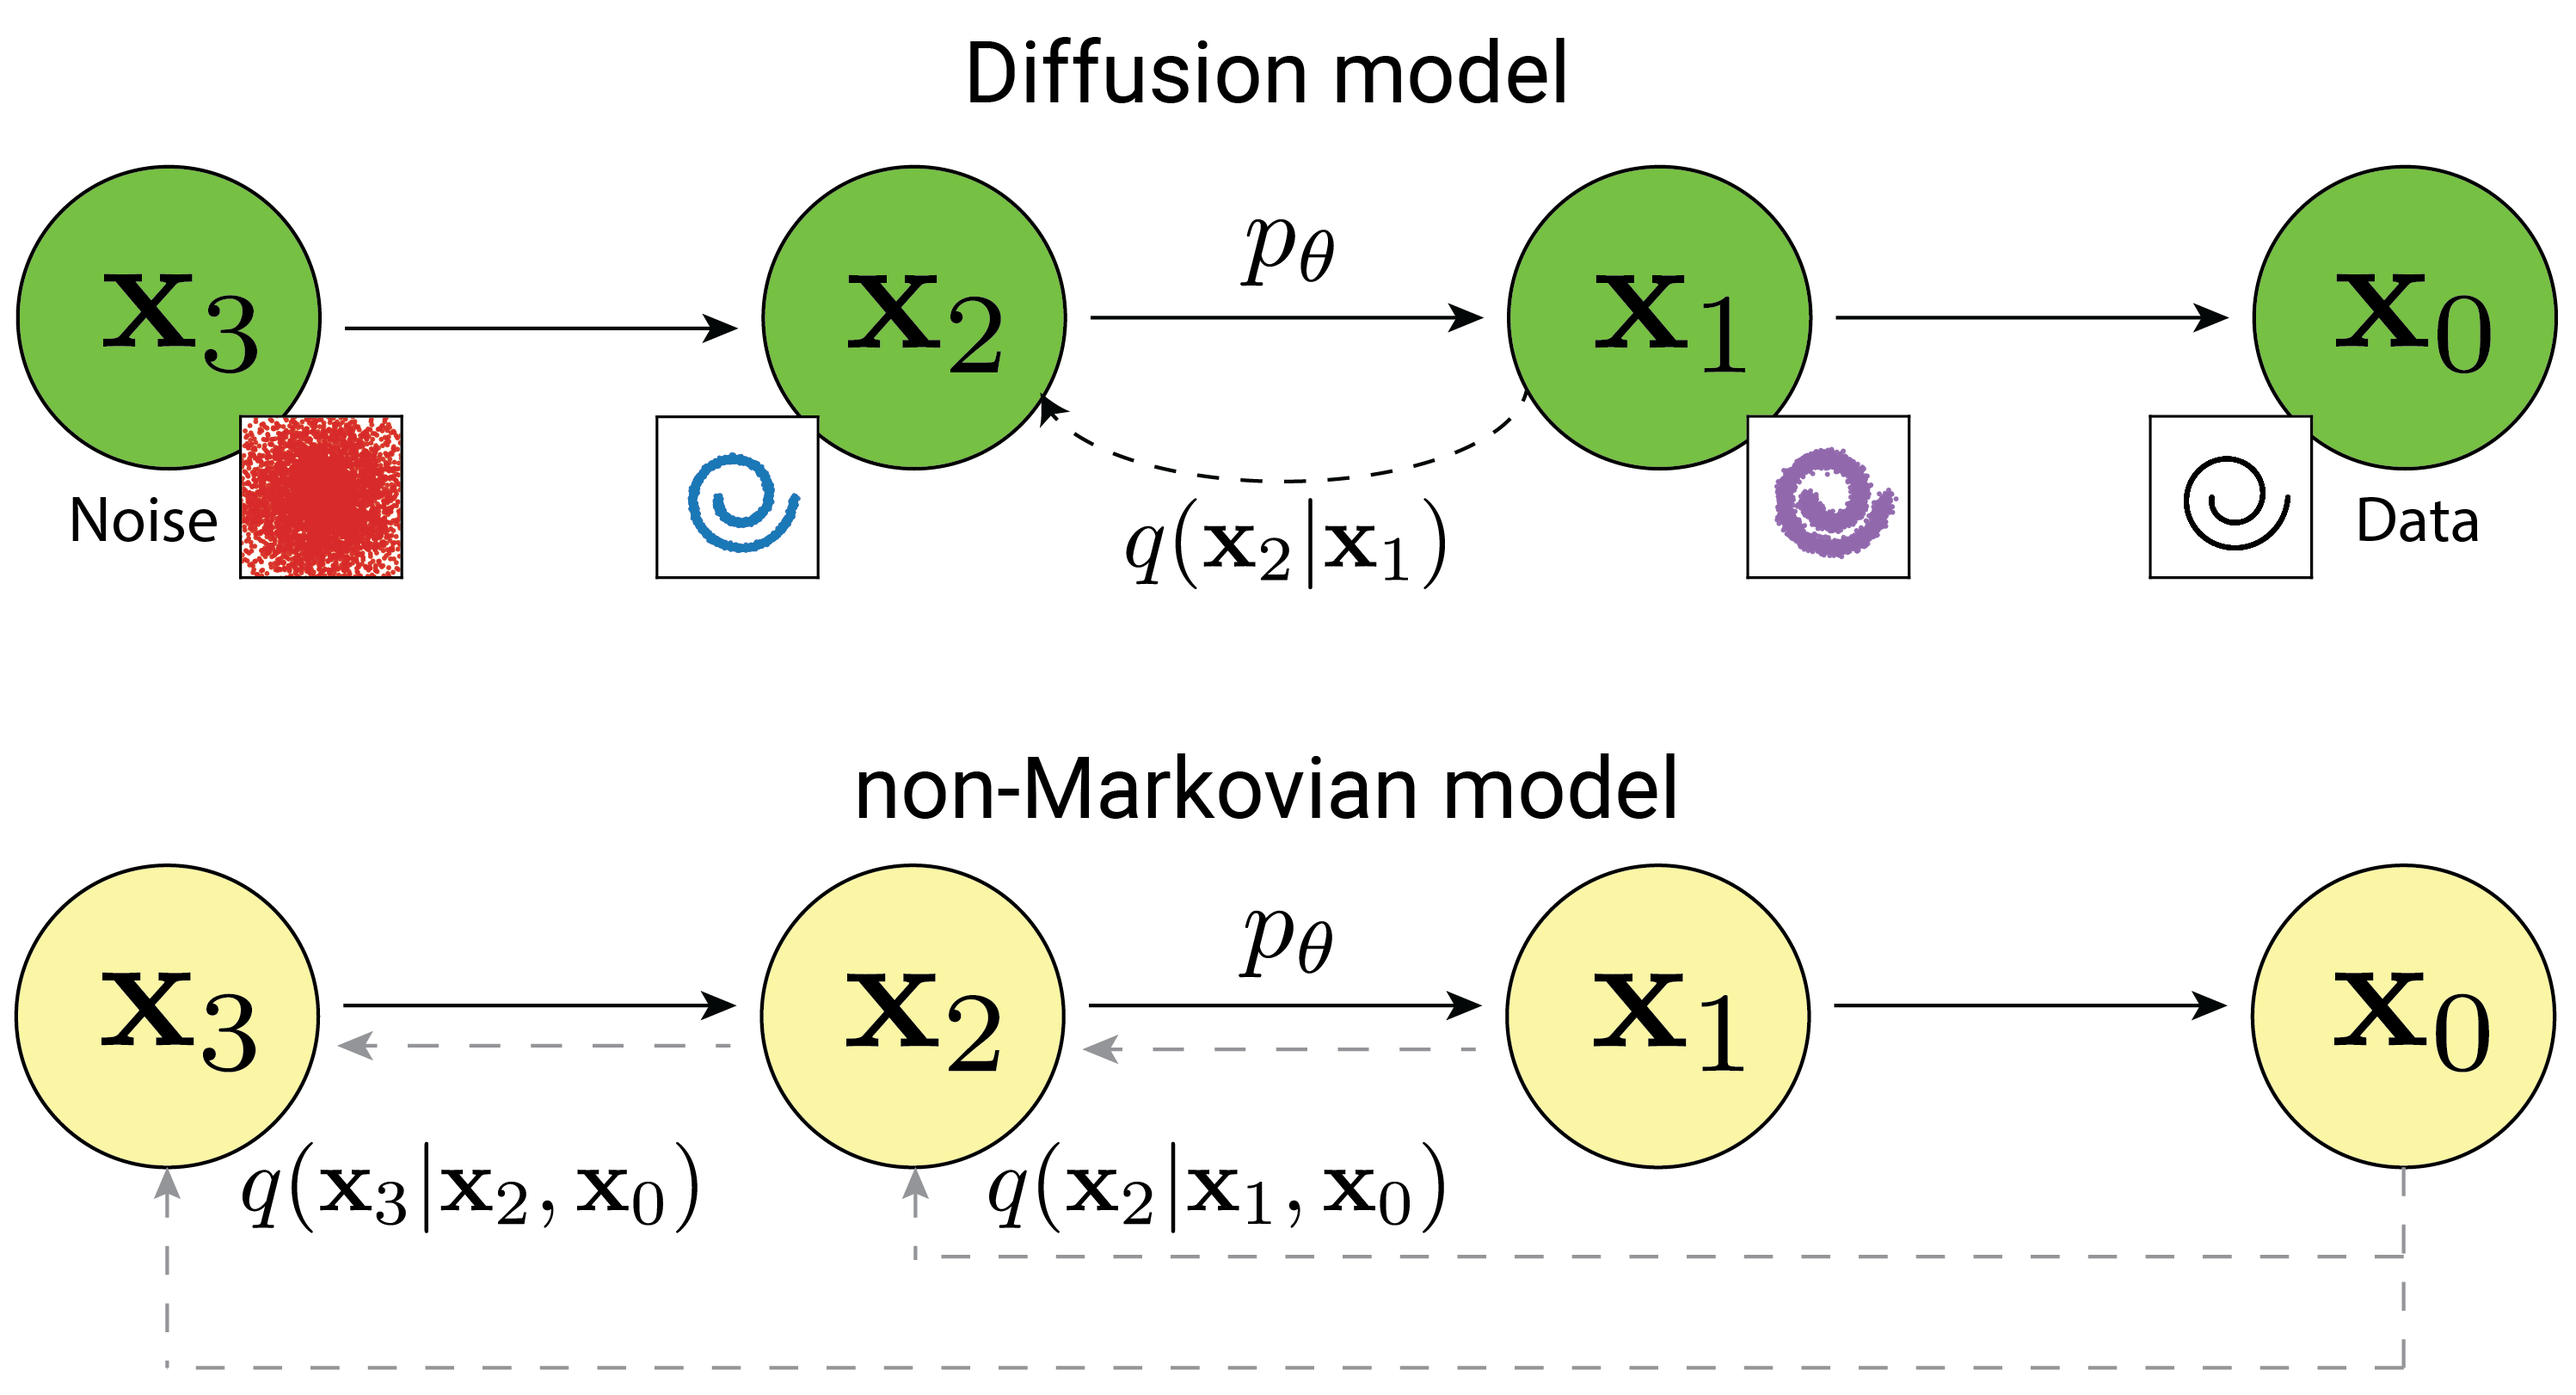
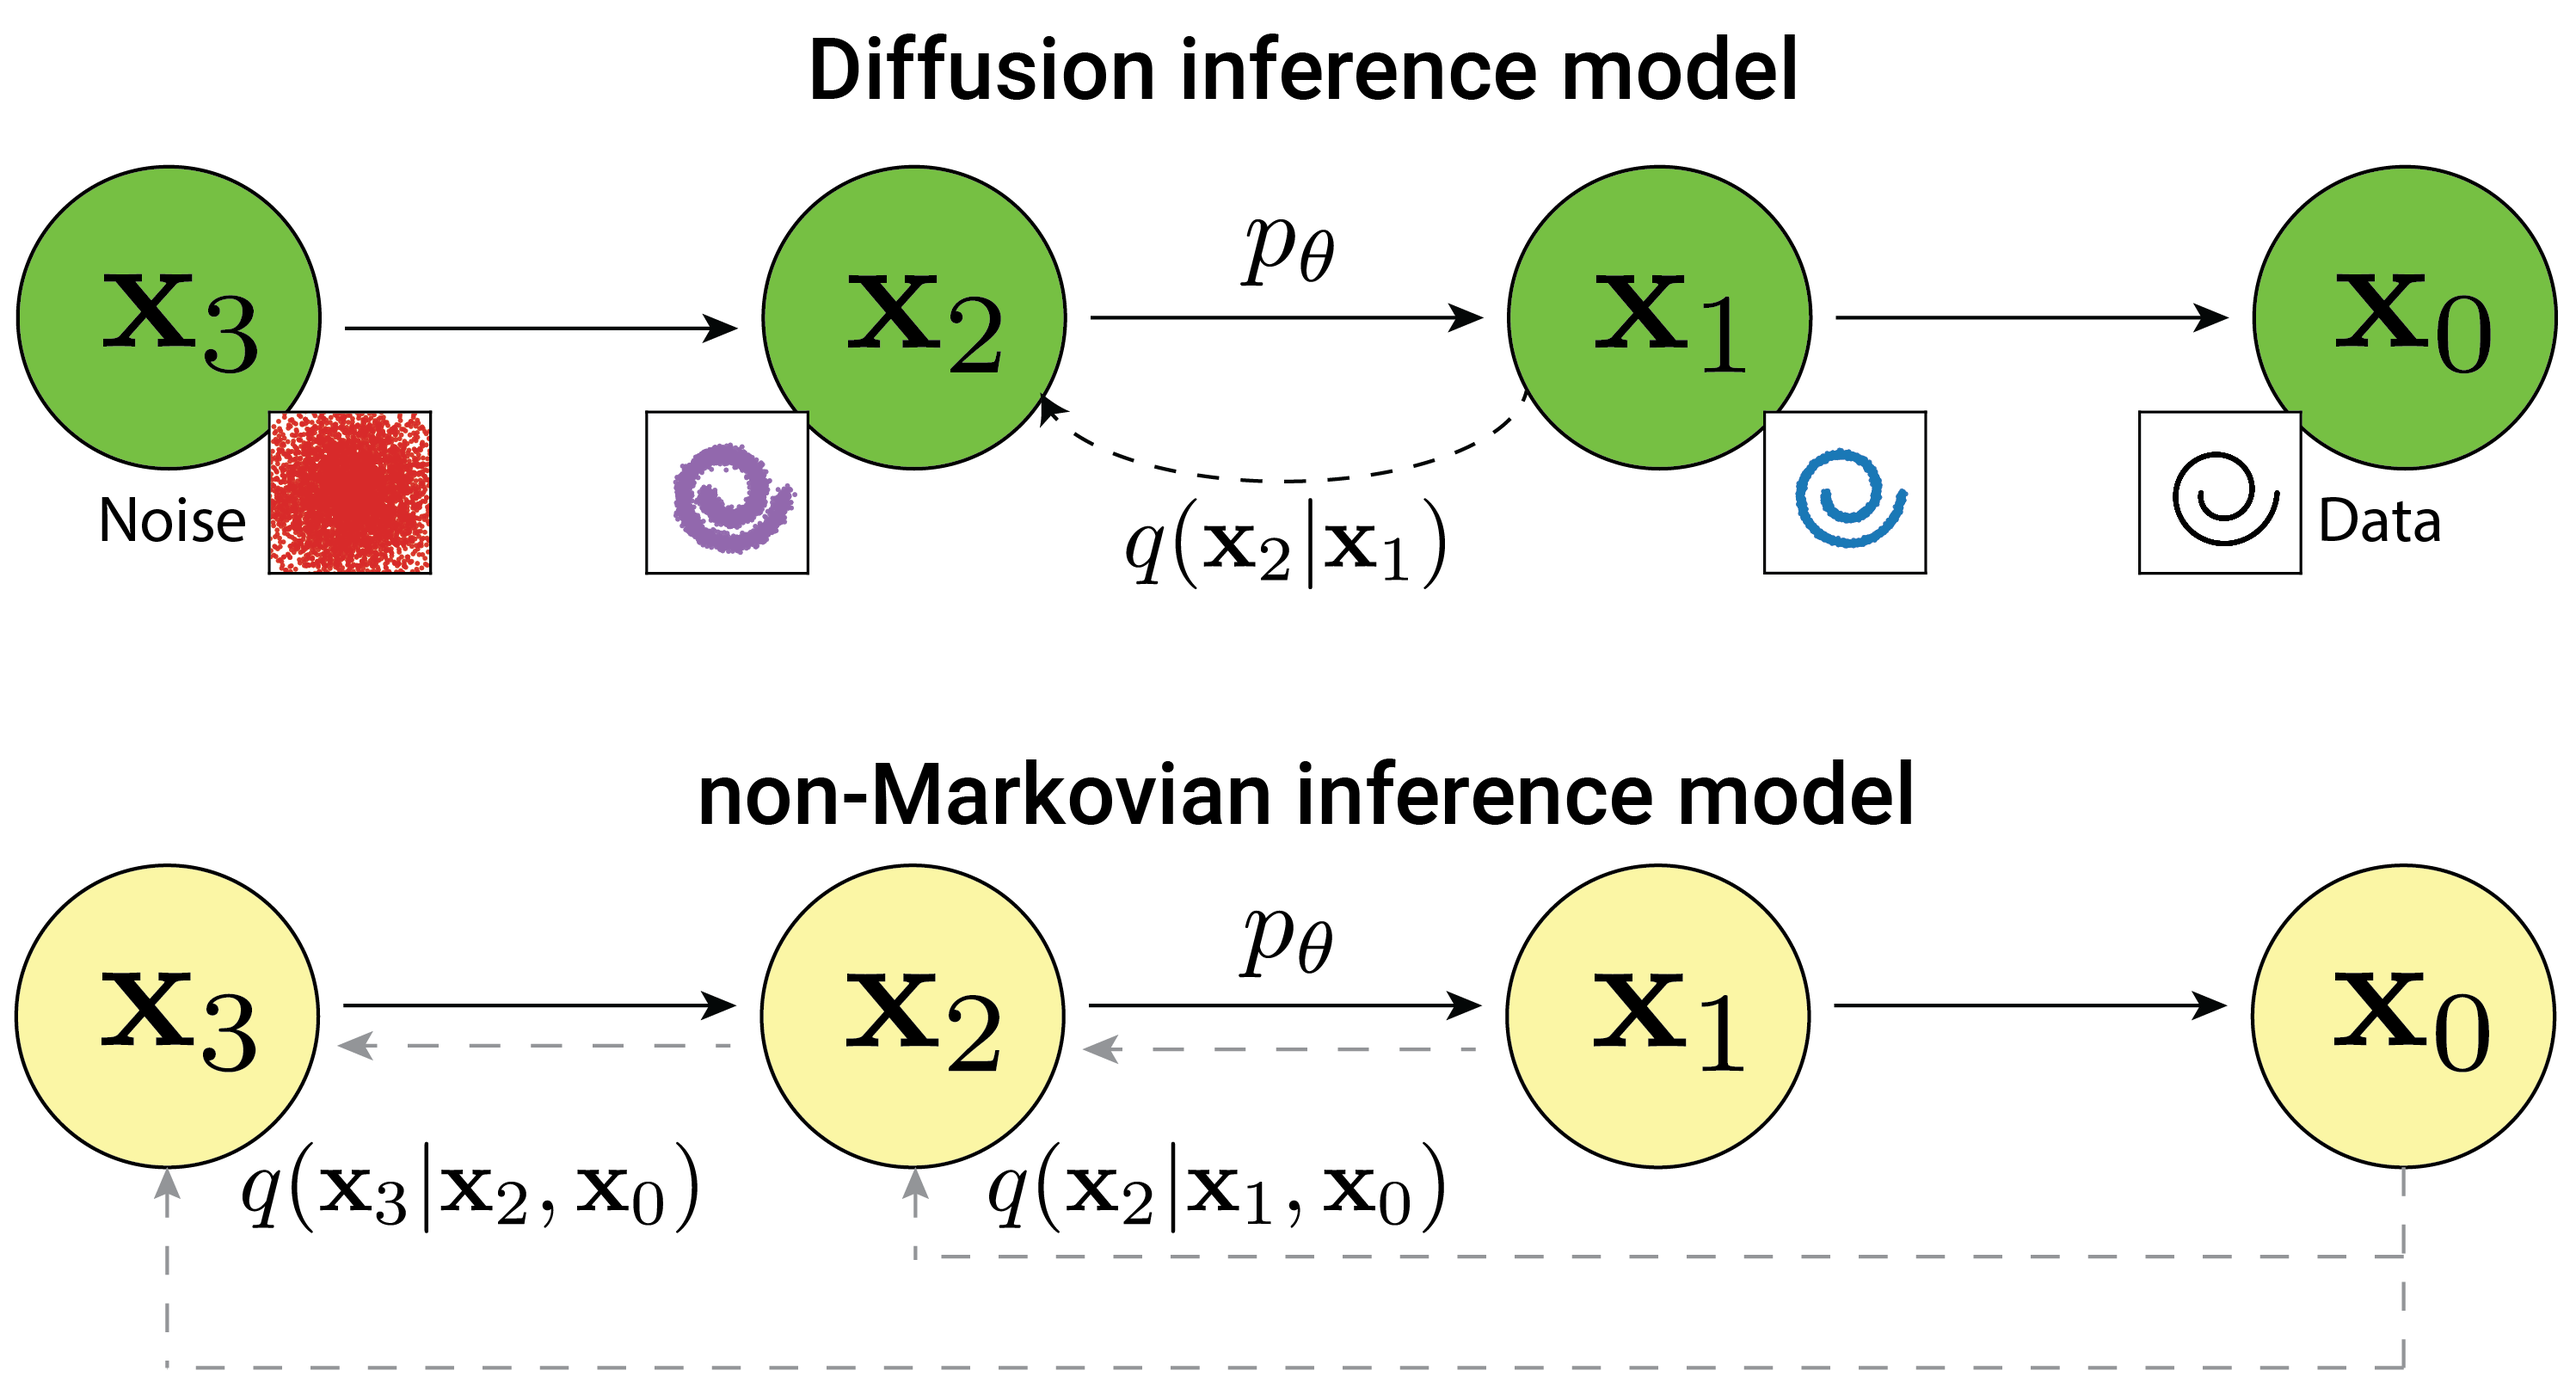
fix figure error and revise writing in ddim

diff --git a/content/posts/Diffusion-Models-DDIM/index.md b/content/posts/Diffusion-Models-DDIM/index.md
@@ -227,6 +227,7 @@ You don’t need to memorize these formulas. The main takeaway is:
   src="../../images/ddim_inferences.png"
   alt="Diffusion model"
   caption="Graphical models for diffusion (top) and non-Markovian (bottom) inference models. <small>*Adapted from [Song et al (2020)](https://arxiv.org/abs/2010.02502)*</small>."
+  width=85%
 >}}
 
 ## Generative Processes
@@ -240,6 +241,8 @@ q_{\sigma}(\mathbf{x}_{t} \vert \mathbf{x}\_0) = \mathcal{N}\big(\sqrt{\alpha\_{
 
 <!--The reason is that ultimately we want $q_{\sigma}(\mathbf{x}\_t \vert \mathbf{x}\_0)$ to become pure white noise when $t=T$ and the original sample when $t=0$.-->
 Why do we want this?
+<div style="margin-top: -18px;"> </div>
+
 - At $t=0$, we want $\mathbf{x}\_t$ to reduce to the original data $\mathbf{x}\_0$.
 - At $t=T$, we want $\mathbf{x}\_T$ to look like almost pure Gaussian noise.
 - Keeping the same form makes it possible to reuse DDPM-trained models.
@@ -249,18 +252,19 @@ There are many different choices of the reverse transition distribution $q\_{\si
 For this purpose, the reverse transition distribution in DDIM is chosen as follows[^JSong2020]:
 
 \begin{equation}
-q_{\sigma}(\mathbf{x}_{t-1} \vert \mathbf{x}\_t, \mathbf{x}\_0) = \mathcal{N}\big(\sqrt{\alpha\_{t-1}}\mathbf{x}\_0 + \sqrt{1 - \alpha\_{t-1}-\sigma_t^2} \left(\frac{\mathbf{x}\_t - \sqrt{\alpha\_t} \mathbf{x}\_0}{\sqrt{1 - \alpha\_{t}}} \right), \sigma_t^2\mathbf{I}\big)
+q_{\sigma}(\mathbf{x}_{t-1} \vert \mathbf{x}\_t, \mathbf{x}\_0) = \mathcal{N}\Big(\sqrt{\alpha\_{t-1}}\mathbf{x}\_0 + \sqrt{1 - \alpha\_{t-1}-\sigma_t^2} \Big(\frac{\mathbf{x}\_t - \sqrt{\alpha\_t} \mathbf{x}\_0}{\sqrt{1 - \alpha\_{t}}} \Big), \sigma_t^2\mathbf{I}\Big)
 \end{equation}
 
 ><mark>*Check out this tutorial[^Chan2024] to see the detailed derivation of this transition distribution.*</mark>
 
-Here, the magnitude of $\sigma_t$ controls how much fresh noise is injected at each step. 
-If $\sigma=0$, the process becomes fully deterministic, <mark class="orange">**and we get a DDIM**</mark>.
-If $\sigma$ is chosen to match the DDPM posterior variance, <mark class="blue">**we recover DDPM sampling**</mark>.
+Here, the magnitude of $\sigma_t$ controls how much fresh noise is injected at each step:
+<div style="margin-top: -18px;"> </div>
+
+- If $\sigma=0$, the process becomes fully deterministic, <mark class="orange">**and we get a DDIM**</mark>.
+- If $\sigma$ is chosen to match the DDPM posterior variance, <mark class="blue">**we recover DDPM sampling**</mark>.
 
 ### Inference for DDIM
-Now let’s see how DDIM actually uses a neural network to go from noise back to data.
-
+Now let’s see how DDIM actually uses a neural network to go from noise back to data.<br>
 From the marginal:
 \begin{equation}
 \underbrace{\mathbf{x}\_t}\_{\text{given}} = \underbrace{\sqrt{\alpha\_t}\mathbf{x}\_0}\_{\text{want to find}} + \underbrace{\sqrt{1 - \alpha\_t}\boldsymbol{\epsilon}}\_{\text{estimated by network}}
@@ -292,6 +296,8 @@ p\_{\theta}(\mathbf{x}\_{t-1} \vert \mathbf{x}\_t) &= q\_{\sigma}(\mathbf{x}\_{t
 \end{equation}
 
 <mark>**The process can be summarized as follows**:</mark>
+<div style="margin-top: -18px;"> </div>
+
 - Take a noisy sample $\mathbf{x}\_t$;
 - Use the network to predict the noise $\boldsymbol{\epsilon}\_{\theta}^{(t)}(\mathbf{x}\_t)$;
 - Use that to estimate the clean sample $\mathbf{x}\_0$;
@@ -354,7 +360,7 @@ $$
 \begin{aligned}
 \sigma\_t&=\sqrt{\frac{1 - \alpha_{t-1}}{1 - \alpha_t}} \sqrt{1 - \frac{\alpha_t}{\alpha_{t-1}}} \quad \quad \color{green}\small{\text{DDIM}} \\\  
 &=\sqrt{\frac{1 - {\color{red}\bar{\alpha}_{t-1}}}{1 - {\color{red}\bar{\alpha}_t}}} \underbrace{\sqrt{1 - {\color{red}\alpha_t}}}\_{\sqrt{\beta_t}} \quad \quad \quad \ \color{green}\small{\text{DDPM; notation change from $\alpha_t$ to $\frac{\alpha\_t}{\alpha\_{t-1}}$}} \\\ 
-&= \sqrt{\tilde{\beta}_t}
+&= \sqrt{\tilde{\beta}_t} \quad \quad \quad \quad \quad \quad \quad \quad \quad \quad \ \color{green}\small{\tilde{\beta}\_t = {\frac{1 - \bar{\alpha}\_{t-1}}{1 - \bar{\alpha}\_t} \beta\_t}}
 \end{aligned}
 $$
 
